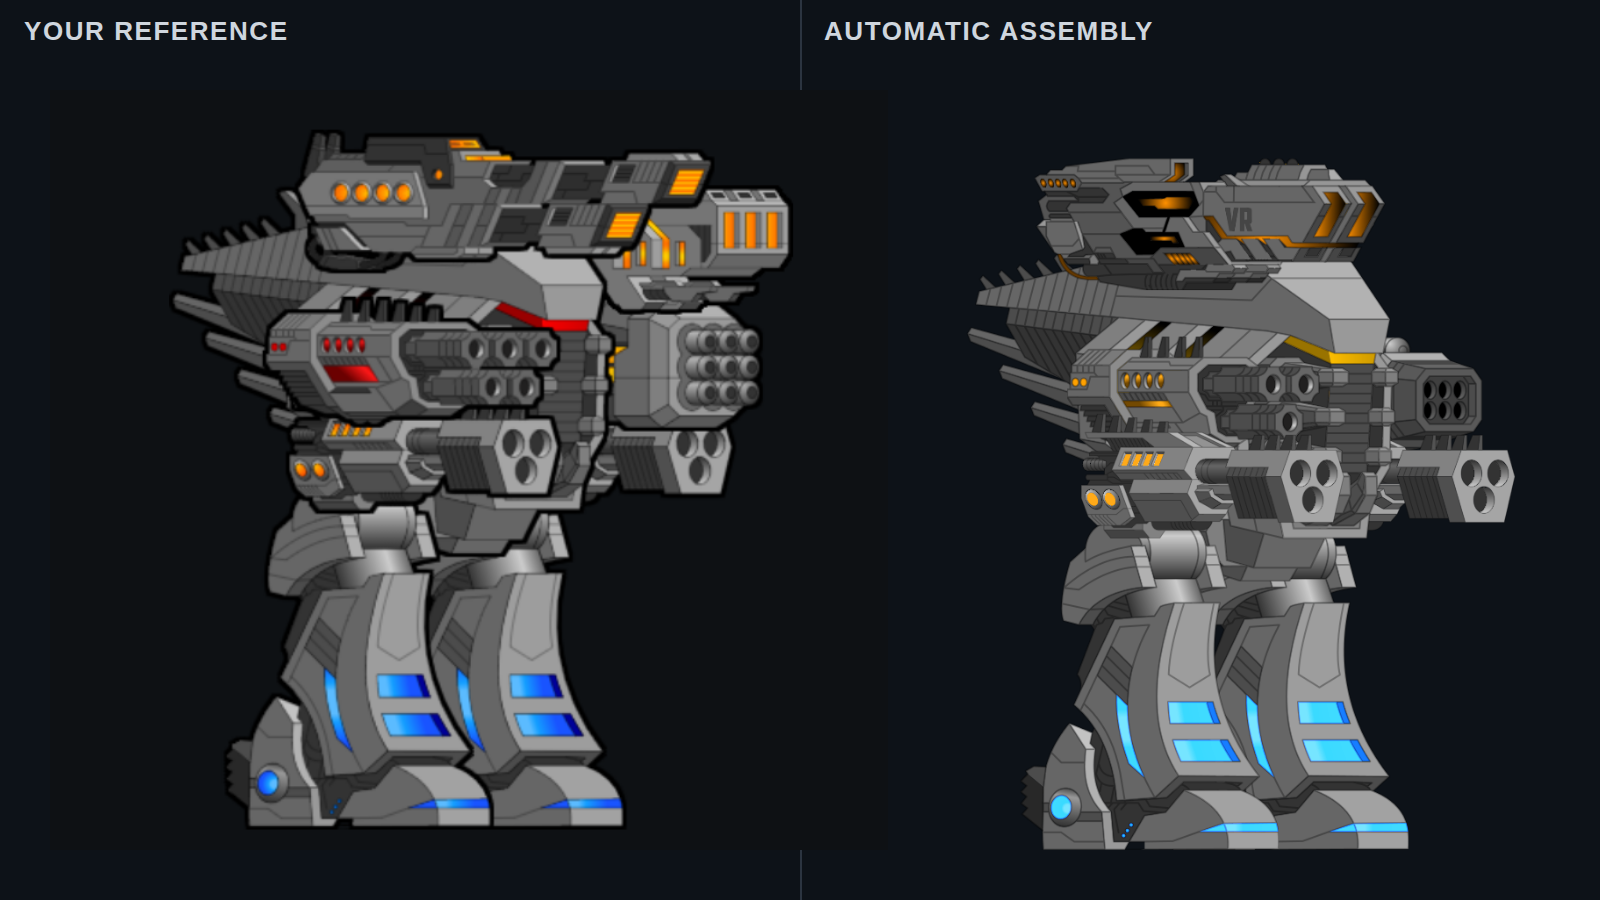
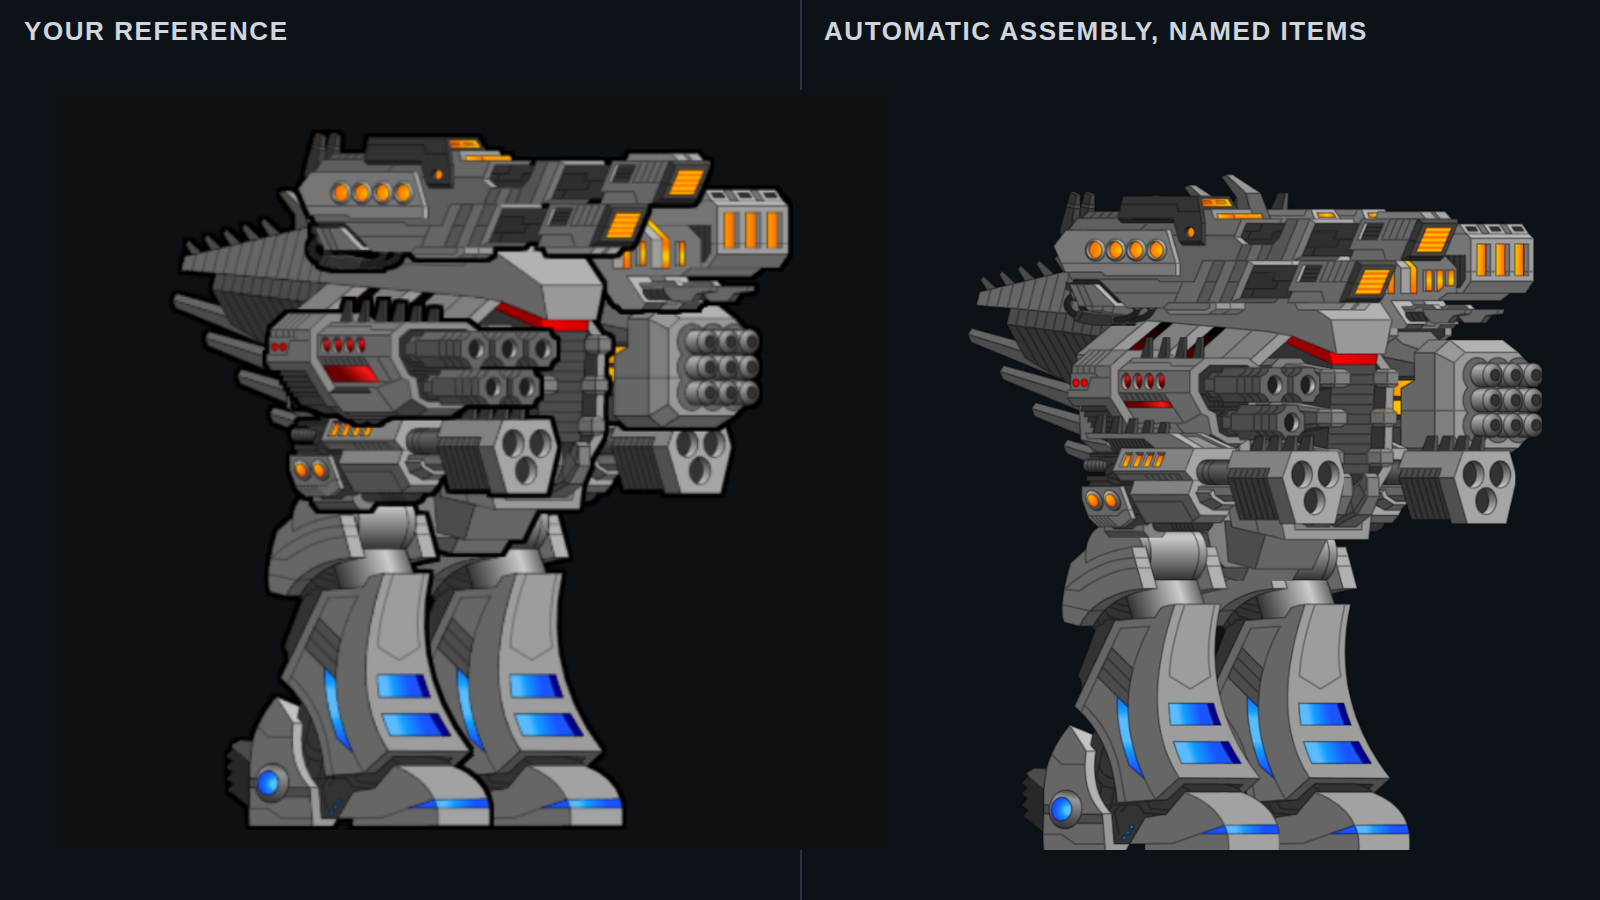
Rebuild the target mech from the named items, rendered natively
Lazy Falcon, Distance Shredder, Abomination, Sacrifice Cannon, Dino Rifle x2
and Lightning Supporters (native blue art, no recolour), placed automatically
with the sprite frame offsets.

Claude-Session: https://claude.ai/code/session_016EMeU7WbdybdkHaQ4QiAx5

Changed region(s): [[0.625, 0.1556, 0.9688, 0.9333], [0.7188, 0.0, 0.8438, 0.0622], [0.6562, 0.8711, 0.7188, 0.9644]]

diff --git a/ui/mocks/assets/mech.js b/ui/mocks/assets/mech.js
@@ -1,5 +1,5 @@
 // Generated by ui/mocks/build_mechs.py from the game's own sprites and anchors.
-window.MECHS={"m1": {"w": 863, "h": 845, "parts": [{"src": "assets/mechs/sideRifle1E.png", "x": 433, "y": 270, "z": 1, "slot": "side2"}, {"src": "assets/mechs/sideRifle1E.png", "x": 419, "y": 366, "z": 2, "slot": "side4"}, {"src": "assets/mechs/topLaser2C_phys.png", "x": 386, "y": 56, "z": 3, "slot": "top2"}, {"src": "assets/mechs/leg73D_phys.png", "x": 369, "y": 493, "z": 4, "slot": "leg2"}, {"src": "assets/mechs/torso52_phys.png", "x": 0, "y": 0, "z": 5, "slot": "torso"}, {"src": "assets/mechs/topLaser2B_phys.png", "x": 255, "y": 90, "z": 6, "slot": "top1"}, {"src": "assets/mechs/leg73D_phys.png", "x": 221, "y": 493, "z": 7, "slot": "leg1"}, {"src": "assets/mechs/cannon3C.png", "x": 242, "y": 274, "z": 8, "slot": "side1"}, {"src": "assets/mechs/sideRifle2E.png", "x": 224, "y": 366, "z": 9, "slot": "side3"}]}, "m2": {"w": 750, "h": 785, "parts": [{"src": "assets/mechs/sideRifle2E.png", "x": 320, "y": 224, "z": 1, "slot": "side2"}, {"src": "assets/mechs/topBeam2E_phys.png", "x": 258, "y": 98, "z": 2, "slot": "top2"}, {"src": "assets/mechs/leg67D_phys.png", "x": 244, "y": 433, "z": 3, "slot": "leg2"}, {"src": "assets/mechs/torso46_phys.png", "x": 0, "y": 0, "z": 4, "slot": "torso"}, {"src": "assets/mechs/topLaser2C_phys.png", "x": 98, "y": 72, "z": 5, "slot": "top1"}, {"src": "assets/mechs/leg67D_phys.png", "x": 124, "y": 433, "z": 6, "slot": "leg1"}, {"src": "assets/mechs/sideRifle1E.png", "x": 116, "y": 224, "z": 7, "slot": "side1"}]}, "m3": {"w": 750, "h": 713, "parts": [{"src": "assets/mechs/sideRifle1E.png", "x": 320, "y": 190, "z": 1, "slot": "side2"}, {"src": "assets/mechs/leg77D_heat.png", "x": 135, "y": 415, "z": 2, "slot": "leg2"}, {"src": "assets/mechs/torso47_phys.png", "x": 0, "y": 0, "z": 3, "slot": "torso"}, {"src": "assets/mechs/topLaser2B_phys.png", "x": 147, "y": 84, "z": 4, "slot": "top1"}, {"src": "assets/mechs/leg77D_heat.png", "x": 15, "y": 415, "z": 5, "slot": "leg1"}, {"src": "assets/mechs/cannon3C.png", "x": 144, "y": 193, "z": 6, "slot": "side1"}]}, "target": {"w": 747, "h": 866, "parts": [{"src": "assets/mechs/rocketLauncher17B_1.png", "x": 453, "y": 282, "z": 1, "slot": "side2"}, {"src": "assets/mechs/cannon3C.png", "x": 447, "y": 369, "z": 2, "slot": "side4"}, {"src": "assets/mechs/rocketLauncher22A_phys.png", "x": 397, "y": 78, "z": 3, "slot": "top2"}, {"src": "assets/mechs/leg73E_phys.png", "x": 331, "y": 490, "z": 4, "slot": "leg2", "css": "hue-rotate(168deg) saturate(1.5)"}, {"src": "assets/mechs/torso52_phys.png", "x": 0, "y": 0, "z": 5, "slot": "torso"}, {"src": "assets/mechs/topBlaster2E_phys.png", "x": 199, "y": 78, "z": 6, "slot": "top1"}, {"src": "assets/mechs/leg73E_phys.png", "x": 183, "y": 490, "z": 7, "slot": "leg1", "css": "hue-rotate(168deg) saturate(1.5)"}, {"src": "assets/mechs/sideSuperRocketLauncher1D.png", "x": 236, "y": 281, "z": 8, "slot": "side1"}, {"src": "assets/mechs/cannon3C.png", "x": 252, "y": 369, "z": 9, "slot": "side3"}]}, "m1hand": {"w": 799, "h": 842, "parts": [{"src": "assets/mechs/sideRifle1E.png", "x": 369, "y": 193, "z": 1, "slot": "side2"}, {"src": "assets/mechs/sideRifle1E.png", "x": 369, "y": 332, "z": 2, "slot": "side4"}, {"src": "assets/mechs/topLaser2C_phys.png", "x": 412, "y": 69, "z": 3, "slot": "top2"}, {"src": "assets/mechs/leg73D_phys.png", "x": 357, "y": 489, "z": 4, "slot": "leg2"}, {"src": "assets/mechs/torso52_phys.png", "x": 0, "y": 0, "z": 6, "slot": "torso"}, {"src": "assets/mechs/topLaser2B_phys.png", "x": 250, "y": 114, "z": 7, "slot": "top1"}, {"src": "assets/mechs/leg73D_phys.png", "x": 236, "y": 490, "z": 8, "slot": "leg1"}, {"src": "assets/mechs/cannon3C.png", "x": 242, "y": 223, "z": 9, "slot": "side1"}, {"src": "assets/mechs/sideRifle2E.png", "x": 175, "y": 333, "z": 10, "slot": "side3"}]}};
+window.MECHS={"m1": {"w": 863, "h": 845, "parts": [{"src": "assets/mechs/sideRifle1E.png", "x": 433, "y": 270, "z": 1, "slot": "side2"}, {"src": "assets/mechs/sideRifle1E.png", "x": 419, "y": 366, "z": 2, "slot": "side4"}, {"src": "assets/mechs/topLaser2C_phys.png", "x": 386, "y": 56, "z": 3, "slot": "top2"}, {"src": "assets/mechs/leg73D_phys.png", "x": 369, "y": 493, "z": 4, "slot": "leg2"}, {"src": "assets/mechs/torso52_phys.png", "x": 0, "y": 0, "z": 5, "slot": "torso"}, {"src": "assets/mechs/topLaser2B_phys.png", "x": 255, "y": 90, "z": 6, "slot": "top1"}, {"src": "assets/mechs/leg73D_phys.png", "x": 221, "y": 493, "z": 7, "slot": "leg1"}, {"src": "assets/mechs/cannon3C.png", "x": 242, "y": 274, "z": 8, "slot": "side1"}, {"src": "assets/mechs/sideRifle2E.png", "x": 224, "y": 366, "z": 9, "slot": "side3"}]}, "m2": {"w": 750, "h": 785, "parts": [{"src": "assets/mechs/sideRifle2E.png", "x": 320, "y": 224, "z": 1, "slot": "side2"}, {"src": "assets/mechs/topBeam2E_phys.png", "x": 258, "y": 98, "z": 2, "slot": "top2"}, {"src": "assets/mechs/leg67D_phys.png", "x": 244, "y": 433, "z": 3, "slot": "leg2"}, {"src": "assets/mechs/torso46_phys.png", "x": 0, "y": 0, "z": 4, "slot": "torso"}, {"src": "assets/mechs/topLaser2C_phys.png", "x": 98, "y": 72, "z": 5, "slot": "top1"}, {"src": "assets/mechs/leg67D_phys.png", "x": 124, "y": 433, "z": 6, "slot": "leg1"}, {"src": "assets/mechs/sideRifle1E.png", "x": 116, "y": 224, "z": 7, "slot": "side1"}]}, "m3": {"w": 750, "h": 713, "parts": [{"src": "assets/mechs/sideRifle1E.png", "x": 320, "y": 190, "z": 1, "slot": "side2"}, {"src": "assets/mechs/leg77D_heat.png", "x": 135, "y": 415, "z": 2, "slot": "leg2"}, {"src": "assets/mechs/torso47_phys.png", "x": 0, "y": 0, "z": 3, "slot": "torso"}, {"src": "assets/mechs/topLaser2B_phys.png", "x": 147, "y": 84, "z": 4, "slot": "top1"}, {"src": "assets/mechs/leg77D_heat.png", "x": 15, "y": 415, "z": 5, "slot": "leg1"}, {"src": "assets/mechs/cannon3C.png", "x": 144, "y": 193, "z": 6, "slot": "side1"}]}, "target": {"w": 775, "h": 864, "parts": [{"src": "assets/mechs/cannon8C2.png", "x": 449, "y": 258, "z": 1, "slot": "side2"}, {"src": "assets/mechs/cannon3C.png", "x": 447, "y": 369, "z": 2, "slot": "side4"}, {"src": "assets/mechs/sideDistanceCloser1E.png", "x": 382, "y": 117, "z": 3, "slot": "top2"}, {"src": "assets/mechs/leg73E.png", "x": 331, "y": 490, "z": 4, "slot": "leg2"}, {"src": "assets/mechs/torso52.png", "x": 0, "y": 0, "z": 5, "slot": "torso"}, {"src": "assets/mechs/sideMegaBlaster1E.png", "x": 220, "y": 116, "z": 6, "slot": "top1"}, {"src": "assets/mechs/leg73E.png", "x": 183, "y": 490, "z": 7, "slot": "leg1"}, {"src": "assets/mechs/sideSuperRocketLauncher2D.png", "x": 236, "y": 281, "z": 8, "slot": "side1"}, {"src": "assets/mechs/cannon3C.png", "x": 252, "y": 369, "z": 9, "slot": "side3"}]}, "m1hand": {"w": 799, "h": 842, "parts": [{"src": "assets/mechs/sideRifle1E.png", "x": 369, "y": 193, "z": 1, "slot": "side2"}, {"src": "assets/mechs/sideRifle1E.png", "x": 369, "y": 332, "z": 2, "slot": "side4"}, {"src": "assets/mechs/topLaser2C_phys.png", "x": 412, "y": 69, "z": 3, "slot": "top2"}, {"src": "assets/mechs/leg73D_phys.png", "x": 357, "y": 489, "z": 4, "slot": "leg2"}, {"src": "assets/mechs/torso52_phys.png", "x": 0, "y": 0, "z": 6, "slot": "torso"}, {"src": "assets/mechs/topLaser2B_phys.png", "x": 250, "y": 114, "z": 7, "slot": "top1"}, {"src": "assets/mechs/leg73D_phys.png", "x": 236, "y": 490, "z": 8, "slot": "leg1"}, {"src": "assets/mechs/cannon3C.png", "x": 242, "y": 223, "z": 9, "slot": "side1"}, {"src": "assets/mechs/sideRifle2E.png", "x": 175, "y": 333, "z": 10, "slot": "side3"}]}};
 
 window.buildMech=function(el,key,heightPx){const m=window.MECHS[key];el.style.position='relative';el.style.width=m.w+'px';el.style.height=m.h+'px';
  for(const p of m.parts){const i=document.createElement('img');i.src=p.src;i.draggable=false;i.style.cssText='position:absolute;left:'+p.x+'px;top:'+p.y+'px;z-index:'+p.z+';max-width:none'+(p.css?';filter:'+p.css:'');el.appendChild(i);}

diff --git a/ui/mocks/build_mechs.py b/ui/mocks/build_mechs.py
@@ -24,6 +24,9 @@ items = {i["id"]: i for i in json.load(open(os.path.join(ROOT, "data", "items_se
 
 
 def sprite_path(name):
+    native = os.path.join(MOCKS, "assets", "native", name + ".png")
+    if os.path.exists(native):
+        return native
     hits = glob.glob(os.path.join(ROOT, "Plans", "**", name + ".png"), recursive=True)
     hits = [h for h in hits if "_archive" not in h]
     if not hits:
@@ -159,12 +162,13 @@ LOADOUTS = {
            "top1": "topLaser2B_phys", "side1": "cannon3C", "side2": "sideRifle1E"},
 }
 
-LOADOUTS["target"] = {  # matched by eye to ui/refs/mech-target.png
-    "torso": "torso52_phys", "leg1": "leg73E_phys", "leg2": "leg73E_phys",
-    "top1": "topBlaster2E_phys", "top2": "rocketLauncher22A_phys",
-    "side1": "sideSuperRocketLauncher1D", "side2": "rocketLauncher17B_1",
-    "side3": "cannon3C", "side4": "cannon3C",
-    "filters": {"leg1": "hue-rotate(168deg) saturate(1.5)", "leg2": "hue-rotate(168deg) saturate(1.5)"},
+LOADOUTS["target"] = {  # the user's reference build (ui/refs/mech-target.png), native art rendered from the SVGs
+    "torso": "torso52", "leg1": "leg73E", "leg2": "leg73E",
+    "top1": "sideMegaBlaster1E",            # Lazy Falcon (backfiring scope)
+    "top2": "sideDistanceCloser1E",         # Distance Shredder
+    "side1": "sideSuperRocketLauncher2D",   # Abomination
+    "side2": "cannon8C2",                   # Sacrifice Cannon
+    "side3": "cannon3C", "side4": "cannon3C",  # Dino Rifle x2
 }
 
 JS_TAIL = """
